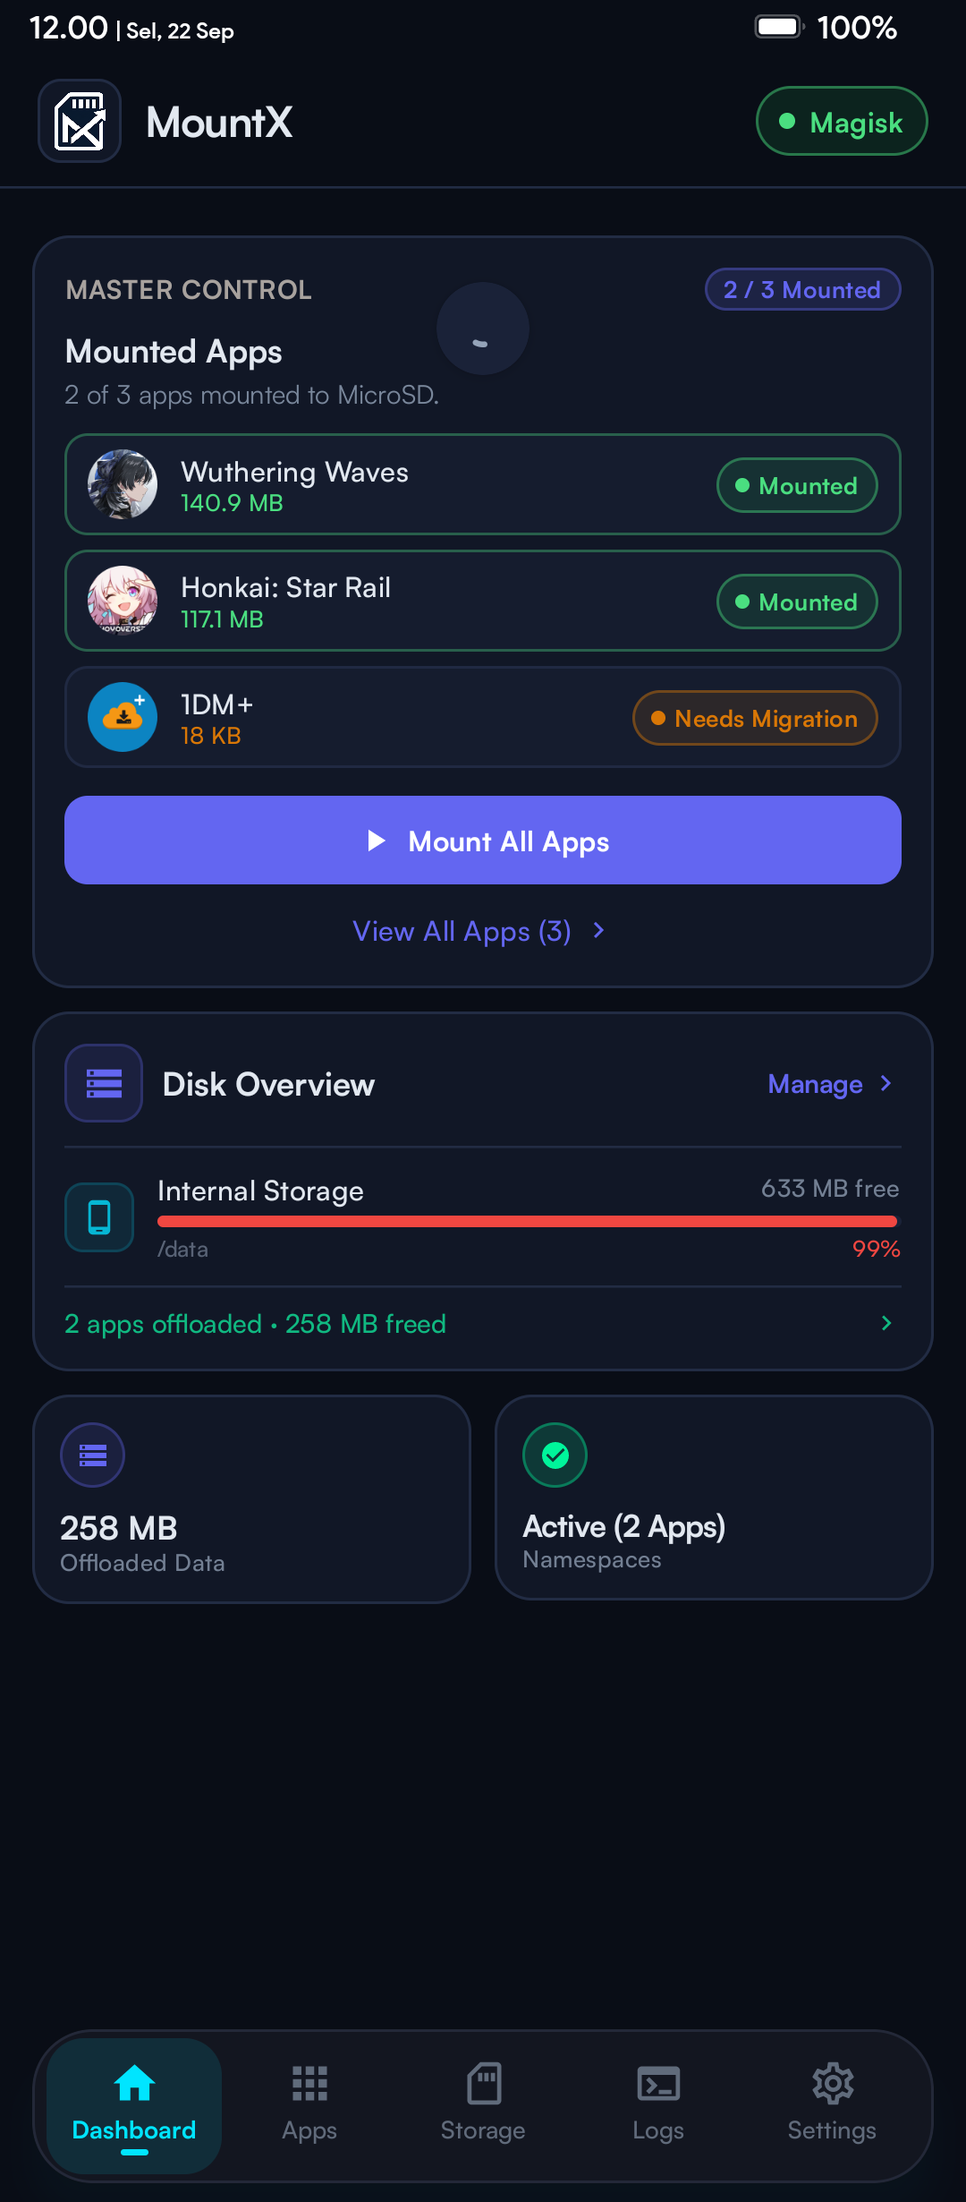
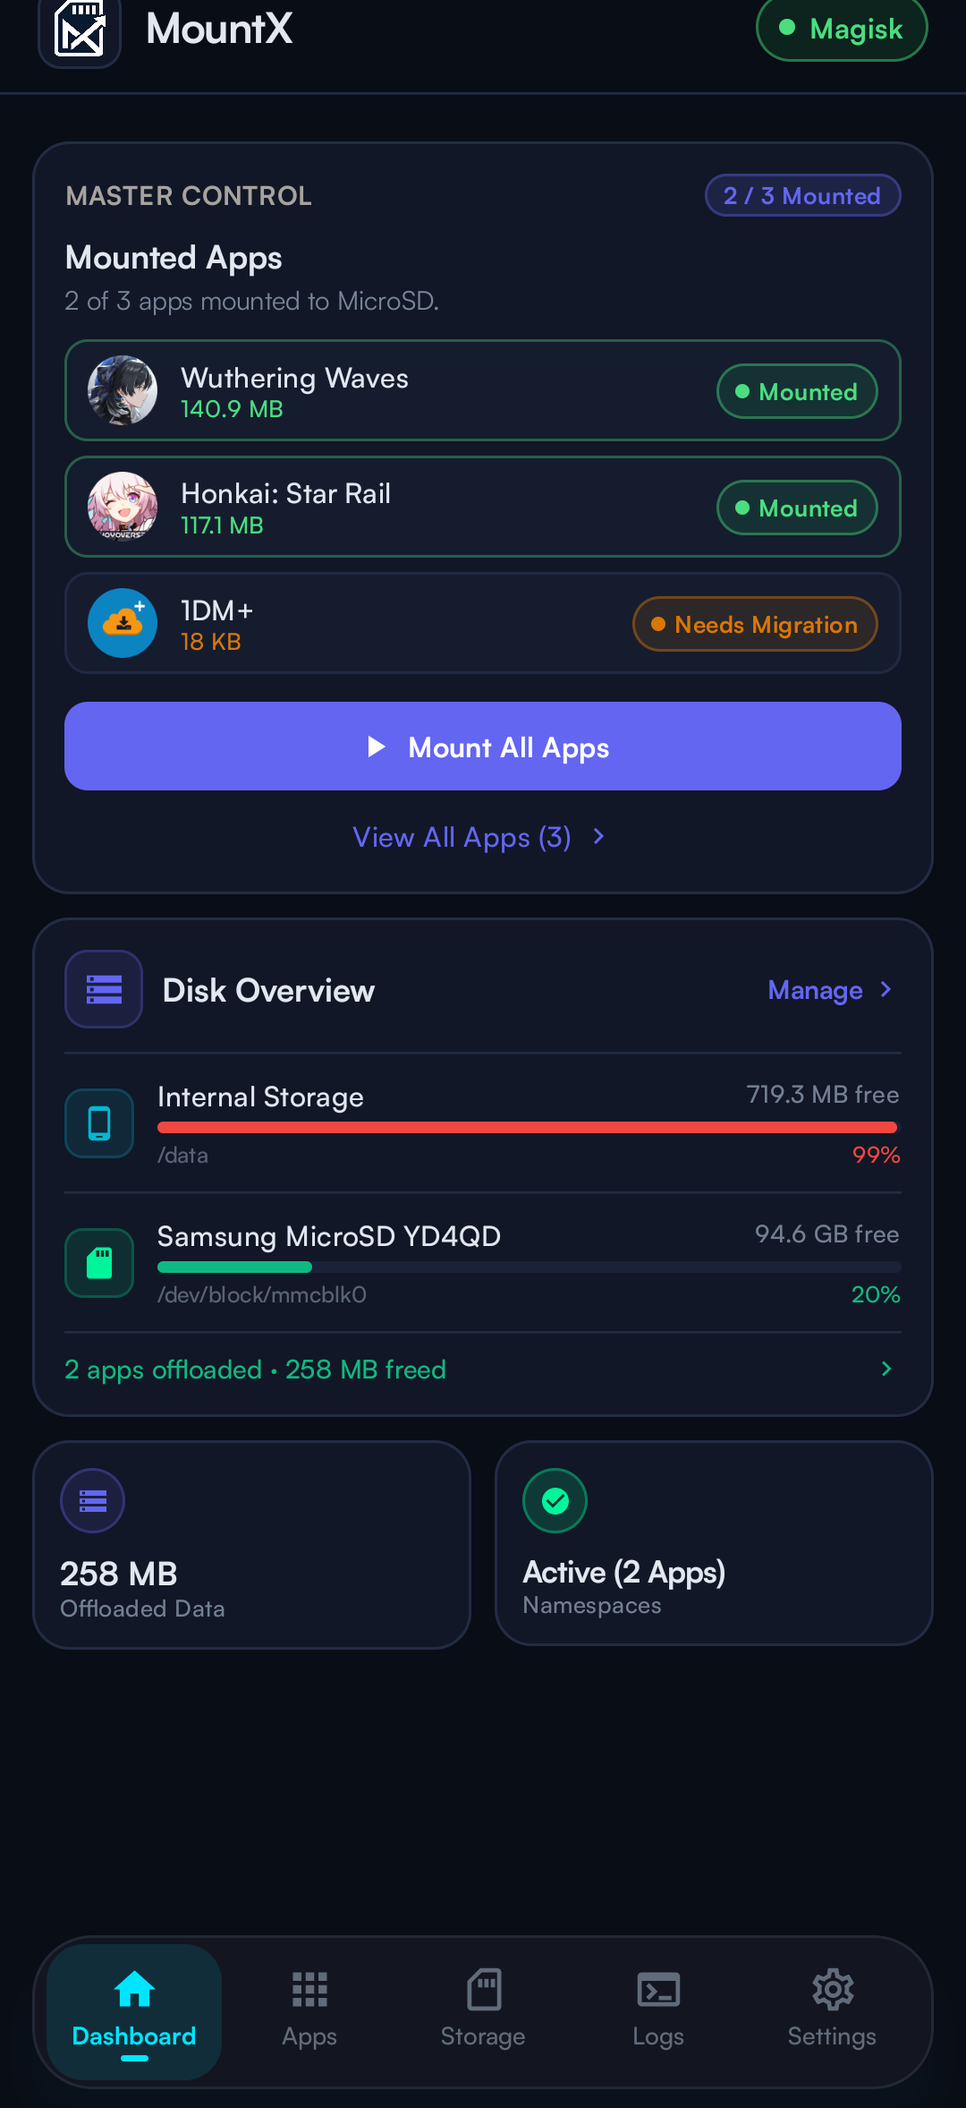
docs: overhaul README, remove AI slop, update to real screenshots and granular storage architecture

diff --git a/README.md b/README.md
@@ -1,155 +1,171 @@
 <div align="center">
 
-<img src="Icon/MountX_icon_Transparent.png" alt="MountX Logo" width="96"/>
+<img src="Icon/MountX_icon_Transparent.png" alt="MountX Logo" width="100"/>
 
 # MountX
 
-**Move your games to MicroSD — without FUSE errors.**
+**Granular Storage Offloader & Native Bind-Mount Engine for Android**
 
 [![Build & Release](https://github.com/Zy0x/MountX/actions/workflows/build.yml/badge.svg)](https://github.com/Zy0x/MountX/actions/workflows/build.yml)
-[![Min SDK](https://img.shields.io/badge/Android-10%2B%20(API%2029)-brightgreen.svg)](https://developer.android.com)
-[![License: MIT](https://img.shields.io/badge/License-MIT-yellow.svg)](LICENSE)
-[![Latest Release](https://img.shields.io/github/v/release/Zy0x/MountX?label=release)](https://github.com/Zy0x/MountX/releases/latest)
+[![Latest Release](https://img.shields.io/github/v/release/Zy0x/MountX?color=blue&label=Latest%20Release)](https://github.com/Zy0x/MountX/releases)
+[![Android](https://img.shields.io/badge/Android-10--16%20(API%2029--36)-brightgreen.svg)](https://developer.android.com)
+[![Root](https://img.shields.io/badge/Root-Magisk%20%7C%20KernelSU%20%7C%20APatch-orange.svg)](https://github.com/topjohnwu/Magisk)
+[![License: MIT](https://img.shields.io/badge/License-MIT-yellow.svg)](https://opensource.org/licenses/MIT)
 
 </div>
 
+Modern mobile titles like *Wuthering Waves*, *Genshin Impact*, and *Honkai: Star Rail* frequently demand 30 GB to 80 GB each, quickly exhausting internal flash storage. Standard Android storage migration fails due to FUSE isolation and `EXDEV: Cross-device link` errors.
 
-## What is MountX?
-
-MountX is a native Android app + Magisk module that moves large game data (Wuthering Waves, Genshin Impact, Honkai: Star Rail, PUBG Mobile, and more) from internal storage to a dedicated MicroSD or Eksternal Disk (SSD Eksternal, USB OTG, etc) partition using kernel-level bind-mounts. Unlike FUSE-based solutions, MountX operates at the filesystem layer — no cross-device copy errors, no performance penalties. Supports Android 10–16 with Magisk, KernelSU, or APatch.
-
----
-
-## Features
-
-- **Bind-Mount Engine** — Transparent filesystem redirection using kernel bind-mounts. Games run from MicroSD as if nothing changed.
-- **Two Mount Modes** — `PKG` mode mounts the entire `Android/data/<package>` directory; `FILES` mode mounts only the `files` subdirectory, keeping the database on internal storage.
-- **Physical Data Migration** — Safe, verified transfer of game data between internal storage and MicroSD with integrity checks.
-- **Partition Tools** — Auto-detect block devices (`mmcblk*`, `sd*`), format partitions to F2FS or Ext4, run read/write benchmarks.
-- **I/O Booster** — Kernel block queue tuning (read-ahead, I/O scheduler, VFS cache pressure) applied at boot for maximum MicroSD throughput.
-- **Real-time Log Viewer** — Live tail of mount activity with color-coded log levels.
-- **Backup & Restore** — Export and import your app configuration as JSON.
-- **Root Framework Agnostic** — Works with Magisk, KernelSU, and APatch via `libsu`.
-- **Material Design 3** — Dynamic Color, AMOLED dark mode, and full light mode support.
-- **Multi-language** — English and Indonesian (Bahasa Indonesia) built-in.
+**MountX** solves this at the kernel level. Using Linux VFS bind-mounts with namespace propagation, MountX redirects data from internal storage (`/data/media/0/Android/data`, `obb`, or custom paths) to a dedicated MicroSD partition, external SSD, or USB OTG drive. Games read and write at full speed without realizing their assets live on external media.
 
 ---
 
 ## Screenshots
 
-### Dark Mode
-
-<table>
+<table align="center">
   <tr>
-    <td align="center"><img src="docs/screenshots/real/01_dashboard_dark.png" width="200"/><br/><b>Dashboard</b></td>
-    <td align="center"><img src="docs/screenshots/real/02_storage_dark.png" width="200"/><br/><b>Storage Overview</b></td>
-    <td align="center"><img src="docs/screenshots/real/03_disk_detail_dark.png" width="200"/><br/><b>Disk Detail</b></td>
+    <td align="center" width="25%">
+      <img src="docs/screenshots/real/01_dashboard_dark.png" alt="Dashboard Dark" width="100%"/><br/>
+      <sub><b>Master Control (Dark)</b><br/>Mount status & disk overview</sub>
+    </td>
+    <td align="center" width="25%">
+      <img src="docs/screenshots/real/02_dashboard_light.png" alt="Dashboard Light" width="100%"/><br/>
+      <sub><b>Master Control (Light)</b><br/>Sandstone light theme</sub>
+    </td>
+    <td align="center" width="25%">
+      <img src="docs/screenshots/real/03_app_storage_breakdown.png" alt="Storage Breakdown" width="100%"/><br/>
+      <sub><b>Granular Storage</b><br/>Asset breakdown & custom paths</sub>
+    </td>
+    <td align="center" width="25%">
+      <img src="docs/screenshots/real/04_apps_light.png" alt="Apps Manager Light" width="100%"/><br/>
+      <sub><b>Apps Manager</b><br/>Per-app mount toggles</sub>
+    </td>
   </tr>
   <tr>
-    <td align="center"><img src="docs/screenshots/real/04_disk_tools_dark.png" width="200"/><br/><b>Disk Tools</b></td>
-    <td align="center"><img src="docs/screenshots/real/05_partition_tools_dark.png" width="200"/><br/><b>Partition Tools</b></td>
-    <td align="center"><img src="docs/screenshots/real/06_games_dark.png" width="200"/><br/><b>Apps & Games</b></td>
-  </tr>
-  <tr>
-    <td align="center"><img src="docs/screenshots/real/07_game_detail_dark.png" width="200"/><br/><b>App Storage Detail</b></td>
-    <td align="center"><img src="docs/screenshots/real/08_logs_dark.png" width="200"/><br/><b>Live Logs</b></td>
-    <td align="center"><img src="docs/screenshots/real/09_settings_dark.png" width="200"/><br/><b>Settings</b></td>
-  </tr>
-  <tr>
-    <td align="center"><img src="docs/screenshots/real/15_about_dark.png" width="200"/><br/><b>About</b></td>
-    <td></td>
-    <td></td>
+    <td align="center" width="25%">
+      <img src="docs/screenshots/real/05_disk_management.png" alt="Disk Management" width="100%"/><br/>
+      <sub><b>Disk & Partitions</b><br/>Visual partition map & telemetry</sub>
+    </td>
+    <td align="center" width="25%">
+      <img src="docs/screenshots/real/06_partition_tools.png" alt="Partition Tools" width="100%"/><br/>
+      <sub><b>Partition Tools</b><br/>F2FS / Ext4 / exFAT formatting</sub>
+    </td>
+    <td align="center" width="25%">
+      <img src="docs/screenshots/real/07_disk_performance.png" alt="Disk Tools" width="100%"/><br/>
+      <sub><b>I/O Speed Booster</b><br/>Queue tuning & benchmarks</sub>
+    </td>
+    <td align="center" width="25%">
+      <img src="docs/screenshots/real/08_settings_dark.png" alt="Settings" width="100%"/><br/>
+      <sub><b>Settings & Backup</b><br/>Snapshot portability & recovery</sub>
+    </td>
   </tr>
 </table>
 
-### Light Mode
+---
 
-<table>
-  <tr>
-    <td align="center"><img src="docs/screenshots/real/11_storage_light.png" width="200"/><br/><b>Storage (Light)</b></td>
-    <td align="center"><img src="docs/screenshots/real/12_games_light.png" width="200"/><br/><b>Apps & Games (Light)</b></td>
-    <td align="center"><img src="docs/screenshots/real/13_game_detail_light.png" width="200"/><br/><b>App Detail (Light)</b></td>
-  </tr>
-  <tr>
-    <td align="center"><img src="docs/screenshots/real/14_settings_light.png" width="200"/><br/><b>Settings (Light)</b></td>
-    <td></td>
-    <td></td>
-  </tr>
-</table>
+## Core Capabilities
+
+### Granular Category Storage Offloading
+Unlike legacy tools that force an all-or-nothing move, MountX inspects and isolates storage components individually:
+* **Asset Bundles (`Android/data`)** and **Expansion Files (`Android/obb`)**: Safely moved to external storage.
+* **Internal Data & SQLite Databases (`/data/data`)**: Retained in high-speed internal flash to eliminate database lockups and micro-stutters.
+* **Custom Directories**: Bind-mount any user-defined folder path for emulators, standalone game engines, or offline map packages.
+
+### Storage & Block Device Management
+* **Universal Hardware Support**: Automatically detects MicroSD cards (`mmcblk*`), external USB-C SSDs (`sd*`), and NVMe storage devices.
+* **Integrated Partitioning & Formatting**: Format partitions to **F2FS**, **Ext4**, **exFAT**, or **FAT32** with safety verification.
+* **Filesystem Health**: Built-in partition label editor, unmounted filesystem checking (`fsck`), and manual or scheduled `FSTRIM` execution.
+
+### Kernel I/O Queue Optimizer
+* Tune block-device read-ahead buffers (up to 2048 KB) for sustained sequential streaming of large game assets.
+* Select optimal Linux I/O schedulers (`noop`, `deadline`, `kyber`, `bfq`) applied automatically at boot.
+* Built-in sequential read throughput and access latency benchmark tool.
+
+### Root Ecosystem Integration
+* Built entirely on `libsu` for reliable, isolated root process execution.
+* Compatible across **Magisk**, **KernelSU**, and **APatch**.
+* Companion root module executes at late-boot (`service.sh`) to mount configured paths before user applications launch.
+
+### Interface & Usability
+* Dual-theme design: High-contrast AMOLED Cyber Dark and warm Sandstone Light.
+* Real-time mount activity logs with logcat filtering.
+* Single-file JSON snapshot export and import for seamless migration across ROM installs or devices.
+* Emergency rescue script generator (`/sdcard/mountx_panic_reset.sh`) for failsafe recovery.
 
 ---
 
 ## Requirements
 
-1. **Rooted Android device** — Magisk, KernelSU, or APatch.
-2. **Android 10–16** (API 29–36).
-3. **MicroSD card or Eksternal Disk** with a dedicated second partition (the app auto-detects block devices; configurable in Settings).
-4. **Partition filesystem** must be **F2FS** or **Ext4** (exFAT/FAT32 are not supported for bind-mounts).
+1. **Root Solution**: Magisk 24.0+, KernelSU 0.9.0+, or APatch 10.0+
+2. **Android Version**: Android 10 to Android 16 (API 29–36)
+3. **External Storage**: MicroSD card, External SSD, or USB-C OTG flash drive
+4. **Filesystem**: **F2FS** or **Ext4** recommended for full POSIX permission support, symlinks, and flash endurance. **exFAT** and **FAT32** are supported with standard Android permission compatibility.
 
 ---
 
-## Quick Install
+## Quick Start
 
-**Step 1 — Download**
+### 1. Flash the Module
+Download `MountX-Magisk-v<version>.zip` from [GitHub Releases](https://github.com/Zy0x/MountX/releases). Flash it in Magisk, KernelSU, or APatch, then reboot your device.
 
-Go to [GitHub Releases](https://github.com/Zy0x/MountX/releases/latest) and download:
-- `MountX-Magisk-vX.X.X.zip` — the root module
-- `MountX-vX.X.X.apk` — the companion app
+### 2. Install the APK
+Install `MountX-v<version>.apk`. On first launch, grant Superuser permissions when prompted.
 
-**Step 2 — Flash the module**
-
-Open your root manager (Magisk / KernelSU / APatch), flash the downloaded `.zip`, then **reboot**.
-
-**Step 3 — Install and configure the app**
-
-Install the APK, open MountX, grant root permission when prompted, and configure your MicroSD partition path in **Settings → SD Partition**.
-
-> For a detailed walkthrough, see [docs/INSTALL.md](docs/INSTALL.md).
-
----
-
-## Build from Source
-
-```bash
-# Clone the repository
-git clone https://github.com/Zy0x/MountX.git
-cd MountX
-
-# Build a signed release APK (requires keystore.properties)
-.\gradlew.bat assembleRelease
-# Output: app/build/outputs/apk/release/app-release.apk
-```
-
-> See [KEYSTORE_SETUP.md](KEYSTORE_SETUP.md) for signing configuration, and [docs/CONTRIBUTING.md](docs/CONTRIBUTING.md) for the full developer guide.
+### 3. Configure & Offload
+1. Open the **Storage** tab to verify your MicroSD or external disk partition is mounted.
+2. Go to the **Apps** tab, select your target game, and tap **Kelola Penyimpanan**.
+3. Choose the storage categories to offload (e.g. Data Aplikasi / OBB) and tap **Pindahkan**.
+4. Once migration completes, the bind-mount is active. Launch your game normally.
 
 ---
 
 ## Documentation
 
-| Document | Description |
+Detailed technical guides and reference manuals:
+
+| Document | Focus |
 |---|---|
-| [INSTALL.md](docs/INSTALL.md) | Full installation guide, prerequisites, and troubleshooting |
-| [USAGE.md](docs/USAGE.md) | User manual — all features explained |
-| [FAQ.md](docs/FAQ.md) | Common questions and answers |
-| [CONTRIBUTING.md](docs/CONTRIBUTING.md) | Developer guide — how to build, contribute, and submit PRs |
-| [CHANGELOG.md](CHANGELOG.md) | Full version history |
+| [Installation Guide](docs/INSTALL.md) | Step-by-step setup, module flashing, root permissions, and initial configuration |
+| [User Guide](docs/USAGE.md) | Complete walkthrough of all 5 tabs, storage categories, partition tools, and I/O booster |
+| [FAQ & Troubleshooting](docs/FAQ.md) | Answers to common questions, error codes, filesystem choices, and recovery |
+| [Contributing Guide](docs/CONTRIBUTING.md) | Architecture overview, code style, building, and pull request workflow |
+| [Changelog](CHANGELOG.md) | Full release and version history |
+
+---
+
+## Build from Source
+
+MountX uses Gradle and Jetpack Compose. JDK 17 is required.
+
+```powershell
+# Clone the repository
+git clone https://github.com/Zy0x/MountX.git
+cd MountX
+
+# Build Release APK
+.\gradlew.bat assembleRelease
+
+# Output: app/build/outputs/apk/release/app-release.apk
+```
+
+For release signing setup, refer to [KEYSTORE_SETUP.md](KEYSTORE_SETUP.md).
 
 ---
 
 ## Support the Project
 
-MountX is free and open-source. If it saves your internal storage, consider buying me a coffee:
+MountX is free and open source. If this project saves your phone storage, consider supporting ongoing development:
 
 | Platform | Link |
 |---|---|
-| ☕ Ko-fi | [ko.fi/Zy0x](https://ko.fi/Zy0x) *(placeholder)* |
-| 💳 PayPal | [paypal.me/Zy0x](https://paypal.me/Zy0x) *(placeholder)* |
-| 🇮🇩 Saweria | [saweria.co/Zy0x](https://saweria.co/Zy0x) *(placeholder)* |
+| ☕ Ko-fi | [Support on Ko-fi](https://ko-fi.com/Zy0x) |
+| 💳 PayPal | [Donate via PayPal](https://paypal.me/Zy0x) |
+| 🇮🇩 Saweria | [Dukung via Saweria](https://saweria.co/Zy0x) |
 
 ---
 
 ## License
 
-Licensed under the [MIT License](LICENSE).
+MountX is licensed under the [MIT License](LICENSE).
 
-**Author:** Noir ([@Zy0x](https://github.com/Zy0x))
+Developed and maintained by **Noir** ([@Zy0x](https://github.com/Zy0x)).

diff --git a/docs/USAGE.md b/docs/USAGE.md
@@ -76,21 +76,25 @@ Mounting moves the physical game data to the MicroSD partition and creates a bin
 
 ---
 
-## Mount Modes
+## Granular Storage Categories
 
-Each app can be configured to use one of two mount modes:
+MountX offers granular control over which storage parts of an application are offloaded:
 
-| Mode | What is mounted | Best for |
-|---|---|---|
-| **PKG** | Entire `Android/data/<package>` directory | Wuthering Waves, PUBG Mobile, COD Mobile |
-| **FILES** | Only `Android/data/<package>/files` subdirectory | Genshin Impact, Honkai: Star Rail, Zenless Zone Zero |
+| Category | Typical Path | Recommended Action | Description |
+|---|---|---|---|
+| **Data Aplikasi** | `Android/data/<package>` | **Move to External** | Main downloaded game asset bundles, textures, and audio packs (30–80 GB). |
+| **OBB** | `Android/obb/<package>` | **Move to External** | Expansion archives packaged with game installations. |
+| **APK** | `/data/app/...` | Keep on Internal | The base and split APK packages. Best kept on internal storage for faster app launch. |
+| **Lib** | `/data/app/.../lib` | Keep on Internal | Compiled native shared libraries (`.so`). Best kept internal to avoid loading lag. |
+| **Data Privat** | `/data/data/<package>` | Keep on Internal | Internal configuration, databases, and keystores. Keeping internal prevents database lockup. |
+| **Cache** | `/data/data/.../cache` | Keep on Internal | Ephemeral compile cache and temporary shader buffers. |
+| **Custom Path** | Any user-specified path | Optional | Bind-mount custom folders (e.g. emulator bios/roms, standalone download directories). |
 
-**When to use FILES mode**: Some games store their local database or save files directly inside `Android/data/<package>` (not in `files`). Moving that directory entirely can cause login failures or corrupted saves. FILES mode keeps the root of the data directory on internal storage and only moves the large `files` subfolder.
-
-To change the mode:
-1. Open App Detail.
-2. Tap the **Mount Mode** selector (PKG / FILES).
-3. If the app is currently mounted, unmount it first, change the mode, then re-mount.
+### Custom Directory Bind-Mounts
+If a game uses non-standard asset folders or you want to offload emulator data:
+1. In App Detail, tap **+ Add Custom Directory**.
+2. Enter the source directory path (or select via file picker) and target partition path.
+3. Tap **Confirm** to include the custom directory in the mount lifecycle.
 
 ---
 

diff --git a/docs/FAQ.md b/docs/FAQ.md
@@ -13,18 +13,17 @@ Avoid cheap, unbranded cards. Slow cards will cause longer loading times and occ
 
 ---
 
-### Which mount mode should I use — PKG or FILES?
+### Which storage categories should I offload to external media?
 
-| Mode | Mount target | Use when |
+MountX breaks app storage into discrete categories. For optimal stability and performance:
+
+| Category | Recommended Location | Rationale |
 |---|---|---|
-| **PKG** | `Android/data/<package>` (entire directory) | The game stores everything in `files/` or has no local database in the root data dir |
-| **FILES** | `Android/data/<package>/files` only | The game stores save data, login tokens, or a local DB directly in `Android/data/<package>` |
-
-**Practical guide:**
-- **Wuthering Waves, PUBG Mobile, COD Mobile** → use **PKG**
-- **Genshin Impact, Honkai: Star Rail, Zenless Zone Zero** → use **FILES**
-
-When in doubt, try FILES mode first. If the game fails to log in or loses progress, switch to PKG.
+| **Data Aplikasi (`Android/data`)** | **External Storage** | Largest bulk of game data (textures, audio, 3D assets). Moving this frees 90%+ of space. |
+| **OBB (`Android/obb`)** | **External Storage** | Game installation expansion packs. Safely stored externally. |
+| **APK / Native Libs** | **Internal Storage** | Fast app startup and code execution without external bus bottlenecks. |
+| **Private Data (`/data/data`)** | **Internal Storage** | SQLite databases, credentials, and settings. Keeping internal prevents database lockup. |
+| **Cache** | **Internal Storage** | Temporary compile and shader cache. |
 
 ---
 
@@ -51,7 +50,7 @@ Yes. MountX supports multiple physical storage devices (MicroSD, USB OTG, extern
 
 1. Go to **App Detail → Manage Storage** and tap **Restore to Internal** to unmount the game.
 2. Check the **Logs** tab for specific errors during the mount operation.
-3. Try switching mount mode (PKG ↔ FILES) and re-mount.
+3. In **App Detail → Kelola Penyimpanan**, ensure private data (`/data/data`) remains on internal storage, offloading only **Data Aplikasi** or **OBB**.
 4. Verify the MicroSD partition is healthy: check free space and run a **Benchmark** from Disk Tools.
 5. If the crash persists, the game may have anti-cheat or integrity checks that detect the modified mount namespace. Unfortunately, some games (particularly those with kernel-level anti-cheat) may not be compatible.
 

diff --git a/docs/INSTALL.md b/docs/INSTALL.md
@@ -15,18 +15,16 @@ Your device must be rooted using one of the supported frameworks:
 - **APatch** — any stable release
 
 ### 2. Android Version
-Android **10 to 15** (API 29–35). Older versions are not supported due to bind-mount restrictions introduced in Android 10.
+Android **10 to 16** (API 29–36).
 
-### 3. MicroSD Card
-- A MicroSD card installed in the device's physical slot.
-- The card must have **at least two partitions**:
-  - Partition 1: Standard FAT32/exFAT (for regular files, optional but recommended).
-  - Partition 2: **F2FS or Ext4** — this is where game data will be stored.
+### 3. External Storage Target
+- A physical **MicroSD card**, **external USB-C SSD/HDD**, or **USB OTG drive**.
+- The storage device should have a dedicated partition:
+  - **F2FS or Ext4** (strongly recommended for native Linux file permissions, symlink support, and flash performance).
+  - **exFAT or FAT32** are also supported with standard Android file permission handling.
 
-  > If your card only has one partition, see [Partition Setup](#partition-setup) below.
-
-### 4. Sufficient Space
-Ensure your MicroSD partition has enough free space for the games you plan to move. Wuthering Waves, for example, requires ~30 GB.
+### 4. Storage Capacity
+Ensure your target partition has sufficient free space for the applications or games you plan to offload. Heavy titles (e.g. Wuthering Waves, Genshin Impact) require 30 GB to 80 GB.
 
 ---
 
@@ -141,7 +139,7 @@ If your MicroSD card doesn't have an Ext4/F2FS partition, you can create one dir
 - Unmount the game (tap **Unmount** in App Detail).
 - Verify the MicroSD partition mount is healthy: `ls /data/sdext2` should list game files.
 - Check the **Logs** tab for specific bind-mount errors.
-- Try switching mount mode (PKG ↔ FILES) in App Detail settings.
+- In App Detail → **Kelola Penyimpanan**, try offloading only **Data Aplikasi** (`Android/data`) or **OBB** while keeping internal data / database in internal storage.
 
 ### Mount fails with "No such file or directory"
 - The module's boot service may not have mounted the SD partition yet. Reboot and try again.
